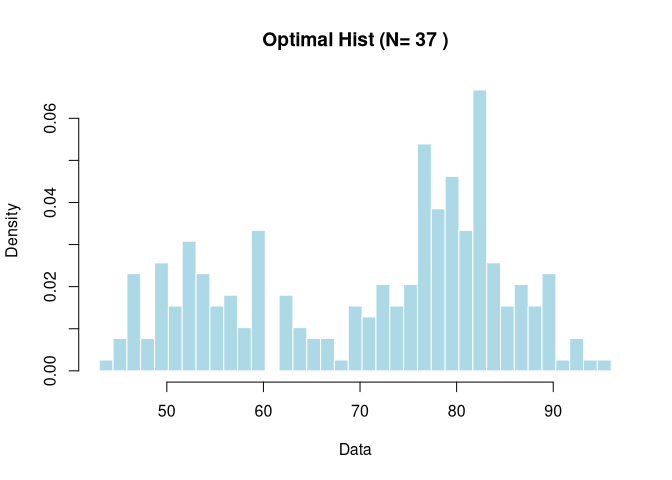
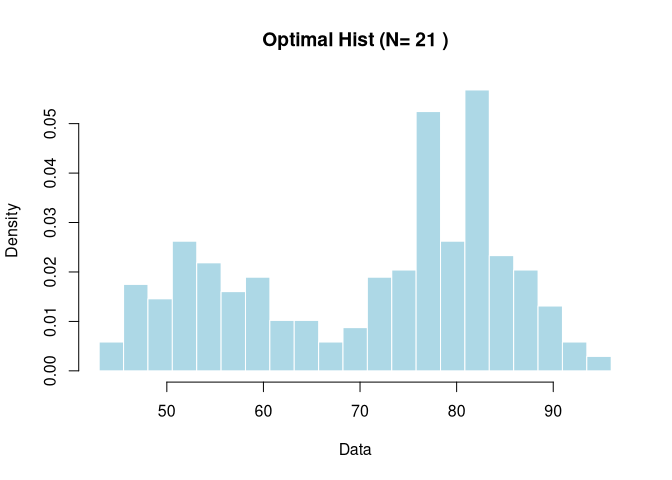
version 0.1.3

diff --git a/README.md b/README.md
@@ -6,7 +6,13 @@
 [![CRAN
 status](https://www.r-pkg.org/badges/version/sshist)](https://CRAN.R-project.org/package=sshist)
 [![CRAN
+downloads](https://cranlogs.r-pkg.org/badges/grand-total/sshist)](https://CRAN.R-project.org/package=sshist)
+[![CRAN
 downloads](https://cranlogs.r-pkg.org/badges/sshist)](https://CRAN.R-project.org/package=sshist)
+[![CRAN
+downloads](https://cranlogs.r-pkg.org/badges/last-week/sshist)](https://CRAN.R-project.org/package=sshist)
+[![CRAN
+downloads](https://cranlogs.r-pkg.org/badges/last-day/sshist)](https://CRAN.R-project.org/package=sshist)
 [![Ask
 DeepWiki](https://deepwiki.com/badge.svg)](https://deepwiki.com/celebithil/sshist)
 <!-- badges: end -->
@@ -57,9 +63,9 @@ res <- sshist(x_data)
 print(res)
 #> Shimazaki-Shinomoto Histogram Optimization
 #> ------------------------------------------
-#> Optimal Bins (N): 37 
-#> Bin Width (D):    1.432 
-#> Cost Minimum:     -9.681
+#> Optimal Bins (N): 21 
+#> Bin Width (D):    2.524 
+#> Cost Minimum:     -8.525
 
 hist(res$data, breaks=res$edges, freq=FALSE,
        main=paste("Optimal Hist (N=", res$opt_n, ")"),
@@ -145,3 +151,5 @@ ggplot(faithful, aes(waiting, eruptions)) +
   size of a time histogram. Neural Computation, 19(6), pp.1503-1527.
   [doi:10.1162/neco.2007.19.6.1503](https://doi.org/10.1162/neco.2007.19.6.1503)
 - <https://www.neuralengine.org/res/histogram.html>
+- <https://github.com/shimazaki/density_estimation>
+- <https://s-shinomoto.com/toolbox/sshist/hist.html>

diff --git a/NEWS.md b/NEWS.md
@@ -1,3 +1,18 @@
+# sshist 0.1.3
+
+## Algorithm Improvements
+
+*   Updated the binning resolution limit formula to `N_max = Range / (2 * Min_Resolution)` to prevent the "comb effect" (sampling artifacts). This change aligns the R implementation with the author's reference code.
+*   The `n_max` parameter in `sshist()` is now strictly bounded by the resolution limit to prevent overfitting.
+
+## Documentation
+
+* Fixed formatting in the `DESCRIPTION` file.
+* Updated the `faithful` dataset examples in `README.md` to reflect the corrected optimal bin calculations (N changed from 37 to 21).
+* Added CRAN download badges to `README.md`.
+* Expanded reference links in `README.md` to include the original toolboxes and GitHub repositories from the algorithm's authors.
+
+
 # sshist 0.1.2
 
 ## CRAN Submission Fixes
